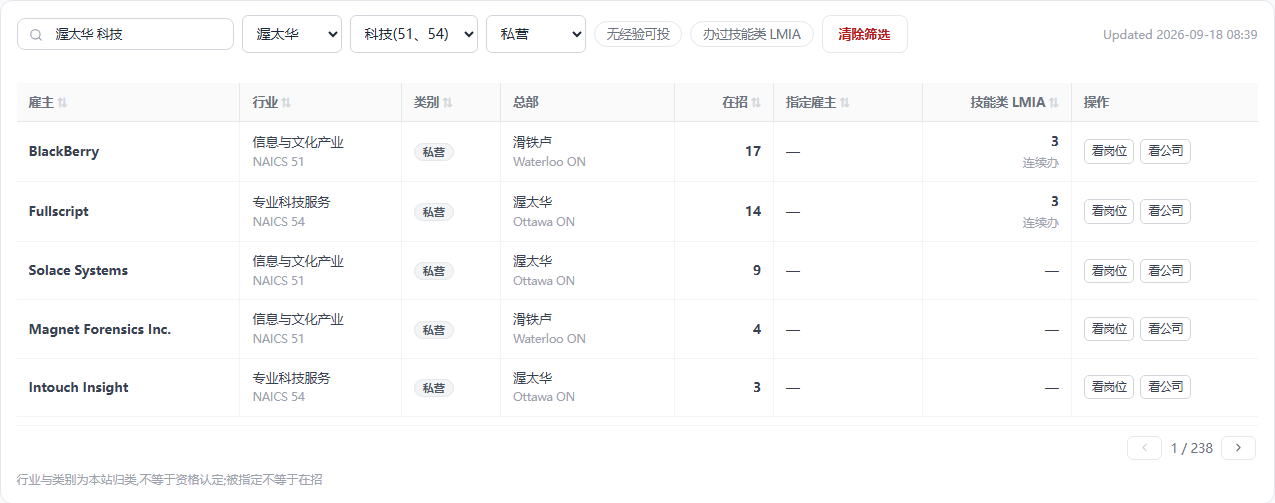
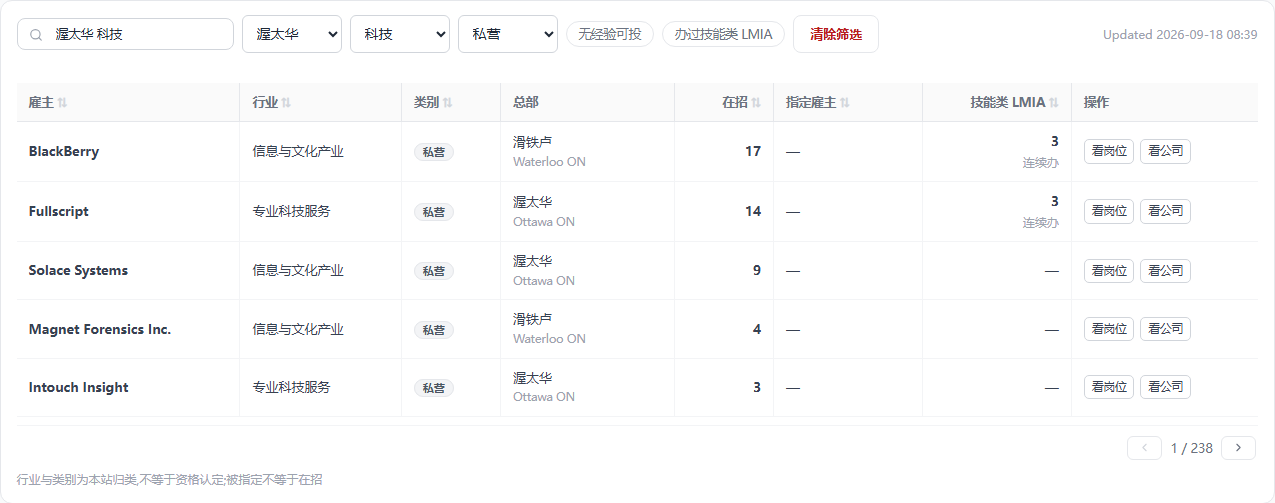
docs(design): 雇主板行业格撤 NAICS 代码灰注,只留中文名(Frank「灰注去掉,只留中文名」)[skip render]

diff --git a/docs/design/雇主分类与搜索-20260918.md b/docs/design/雇主分类与搜索-20260918.md
@@ -48,7 +48,7 @@
 | 维度 | 值域 | 来源 | 空值口径 |
 |---|---|---|---|
 | 地点 | 总部(市 + 省)。招聘地点(发过岗的城市清单)只留在数据里给公司页用,**不上雇主板**(2026-09-18 Frank「招聘地点去掉吧」) | 总部:库里已有文本(AI 简介、官网简介、维基页信息框)提「headquartered in / 总部位于」;招聘地点:雇主池 `citiesActive` 现成 | 总部提不到时列里显主场城市(发岗最多的城市),不标「总部」字样;两者都没有显「—」。**不叫「分部」**:我们只知道它在哪发过岗,不知道那里有没有办公室 |
-| 行业 | NAICS Canada 2022:存 3 位子部门,显示 2 位部门(20 个),主文案中文名 + 灰注「NAICS 51」 | 三层(分类清洗稿公司段):① Jobillico 122 标签人工映射表 ② qwen 读简介在 20 部门内选或弃权 ③ **没正文的按在招岗 NOC 多数派兜底,标「推断」**(09-18 默认) | 兜底也算不出(无岗)留空 |
+| 行业 | NAICS Canada 2022:存 3 位子部门,显示 2 位部门(20 个),只显部门中文名,**代码不上板**(2026-09-18 Frank「灰注去掉,只留中文名」;代码存库,公司页再显) | 三层(分类清洗稿公司段):① Jobillico 122 标签人工映射表 ② qwen 读简介在 20 部门内选或弃权 ③ **没正文的按在招岗 NOC 多数派兜底,标「推断」**(09-18 默认) | 兜底也算不出(无岗)留空 |
 | 类别 | 五档:联邦机关 / 省政府 / 市镇政府 / 公立机构 / 私营 | mart 段 14 现成名字规则(09-05 拍的四档),把「省市政府」拆成省、市两档(实测 439 家里 370 家是 City of / Ville de / Municipalité 形) | 规则没命中 = 私营。慈善、协会、非营利也落私营,不另立档(名字上判不准,加档 = 替官方编答案;正确来源是 CRA 慈善名录,另一批) |
 | 名字 | 英文名;中 / 韩别名(人工核定表立起来前只显英文,09-13 拍) | 现成 | — |
 
@@ -70,7 +70,7 @@
 
 `雇主 / 行业 / 类别 / 总部 / 在招 / 指定雇主 / 技能类 LMIA / 操作`(2026-09-18 Frank「招聘地点去掉吧」:原九列的「招聘地点」撤)
 
-- 行业:中文部门名主文案 + 「NAICS 51」灰注;推断的加「推断」灰注。
+- 行业:只显部门中文名,不带代码灰注;推断的加「推断」灰注。
 - 类别:通用 tag 桶 gray 变体。
 - 总部:CityNameCell 双行形(中文主文案 + 英文灰注);提不到总部时显主场城市。
 - **技能类 LMIA 一格**:近两年高薪流 + 全球人才流获批份数,「连续办」灰注 = 2024、2025 两年都有记录;0 显「—」。农业 / 低薪流不上板,只在公司页担保记录卡按流拆开。
@@ -147,6 +147,7 @@
 7. top 做成段不做页;单位 = 地区 × 行业 / 类别;省一级不做榜。
 8. 「招聘地点」列撤,只留总部(Frank「招聘地点去掉吧」)。
 9. 已选胶囊行撤,搜索认出的维度直接落下拉框(Frank「这种胶囊的也去掉吧」)。
+10. 行业格不带 NAICS 代码灰注,只留中文名(Frank「灰注去掉,只留中文名」)。
 
 **待拍**:
 - 行业别名表(「科技」= 51 + 54 这类归并)由我填、Frank 抽查 —— 同 Jobillico 映射表做法。
@@ -154,4 +155,4 @@
 
 ## 状态
 
-- 2026-09-18:设计稿 + 五张效果图。同日 Frank「招聘地点去掉吧」「这种胶囊的也去掉吧」:列撤、已选行撤、效果图重拍。
+- 2026-09-18:设计稿 + 五张效果图。同日 Frank「招聘地点去掉吧」「这种胶囊的也去掉吧」「灰注去掉,只留中文名」:列撤、已选行撤、代码灰注撤、效果图重拍。
